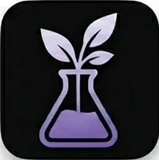
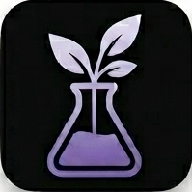
Updates

diff --git a/index.html b/index.html
@@ -2,7 +2,7 @@
 <html lang="en">
   <head>
     <meta charset="UTF-8" />
-    <link rel="icon" type="image/svg+xml" href="/feritilizer/favicon.svg" />
+    <link rel="icon" type="image/png" href="/feritilizer/favicon.png" />
     <meta name="viewport" content="width=device-width, initial-scale=1.0" />
     <title>feritilizer</title>
     <script type="module" crossorigin src="/feritilizer/assets/index-Dx9O4V-u.js"></script>

diff --git a/sw.js b/sw.js
@@ -1,1 +1,1 @@
-if(!self.define){let e,i={};const n=(n,s)=>(n=new URL(n+".js",s).href,i[n]||new Promise(i=>{if("document"in self){const e=document.createElement("script");e.src=n,e.onload=i,document.head.appendChild(e)}else e=n,importScripts(n),i()}).then(()=>{let e=i[n];if(!e)throw new Error(`Module ${n} didn’t register its module`);return e}));self.define=(s,c)=>{const r=e||("document"in self?document.currentScript.src:"")||location.href;if(i[r])return;let o={};const f=e=>n(e,r),a={module:{uri:r},exports:o,require:f};i[r]=Promise.all(s.map(e=>a[e]||f(e))).then(e=>(c(...e),o))}}define(["./workbox-9c191d2f"],function(e){"use strict";self.skipWaiting(),e.clientsClaim(),e.precacheAndRoute([{url:"registerSW.js",revision:"c85fe85348815cef46298755f8890669"},{url:"index.html",revision:"2d646d93b405807e7b1ea0c1def4edc0"},{url:"icons.svg",revision:"3b4fcfcf393eca4d264dca4a4663bc37"},{url:"icon-512.png",revision:"ca66f1aa12aa2320ca47efcb229aa032"},{url:"icon-512-maskable.png",revision:"435cd0c1dad3f6c14f57ff78c11120ee"},{url:"icon-192.png",revision:"f47e270ee57b8b072ffe68719616e37b"},{url:"favicon.svg",revision:"7e840862161341271697daa99a40d76b"},{url:"assets/index-Dx9O4V-u.js",revision:null},{url:"assets/index-Bcbm_DkG.css",revision:null},{url:"icon-192.png",revision:"f47e270ee57b8b072ffe68719616e37b"},{url:"icon-512-maskable.png",revision:"435cd0c1dad3f6c14f57ff78c11120ee"},{url:"icon-512.png",revision:"ca66f1aa12aa2320ca47efcb229aa032"},{url:"manifest.webmanifest",revision:"fe20625566c52e0a8ef91f82fcd6464d"}],{}),e.cleanupOutdatedCaches(),e.registerRoute(new e.NavigationRoute(e.createHandlerBoundToURL("index.html")))});
+if(!self.define){let e,i={};const n=(n,s)=>(n=new URL(n+".js",s).href,i[n]||new Promise(i=>{if("document"in self){const e=document.createElement("script");e.src=n,e.onload=i,document.head.appendChild(e)}else e=n,importScripts(n),i()}).then(()=>{let e=i[n];if(!e)throw new Error(`Module ${n} didn’t register its module`);return e}));self.define=(s,c)=>{const r=e||("document"in self?document.currentScript.src:"")||location.href;if(i[r])return;let o={};const d=e=>n(e,r),a={module:{uri:r},exports:o,require:d};i[r]=Promise.all(s.map(e=>a[e]||d(e))).then(e=>(c(...e),o))}}define(["./workbox-9c191d2f"],function(e){"use strict";self.skipWaiting(),e.clientsClaim(),e.precacheAndRoute([{url:"registerSW.js",revision:"c85fe85348815cef46298755f8890669"},{url:"index.html",revision:"966a460dab4c875871ca1c6b4f656941"},{url:"icons.svg",revision:"3b4fcfcf393eca4d264dca4a4663bc37"},{url:"icon-512.png",revision:"15ab7ec29ce81bd2d72044241a65e6d7"},{url:"icon-512-maskable.png",revision:"370856a266228de72eabacad82c4a217"},{url:"icon-192.png",revision:"3b1ad99971dbb2ce74ed1f2d099ff160"},{url:"favicon.svg",revision:"7e840862161341271697daa99a40d76b"},{url:"favicon.png",revision:"0a29b64c448d1cf6094818e08017c75c"},{url:"assets/index-Dx9O4V-u.js",revision:null},{url:"assets/index-Bcbm_DkG.css",revision:null},{url:"icon-192.png",revision:"3b1ad99971dbb2ce74ed1f2d099ff160"},{url:"icon-512-maskable.png",revision:"370856a266228de72eabacad82c4a217"},{url:"icon-512.png",revision:"15ab7ec29ce81bd2d72044241a65e6d7"},{url:"manifest.webmanifest",revision:"fe20625566c52e0a8ef91f82fcd6464d"}],{}),e.cleanupOutdatedCaches(),e.registerRoute(new e.NavigationRoute(e.createHandlerBoundToURL("index.html")))});